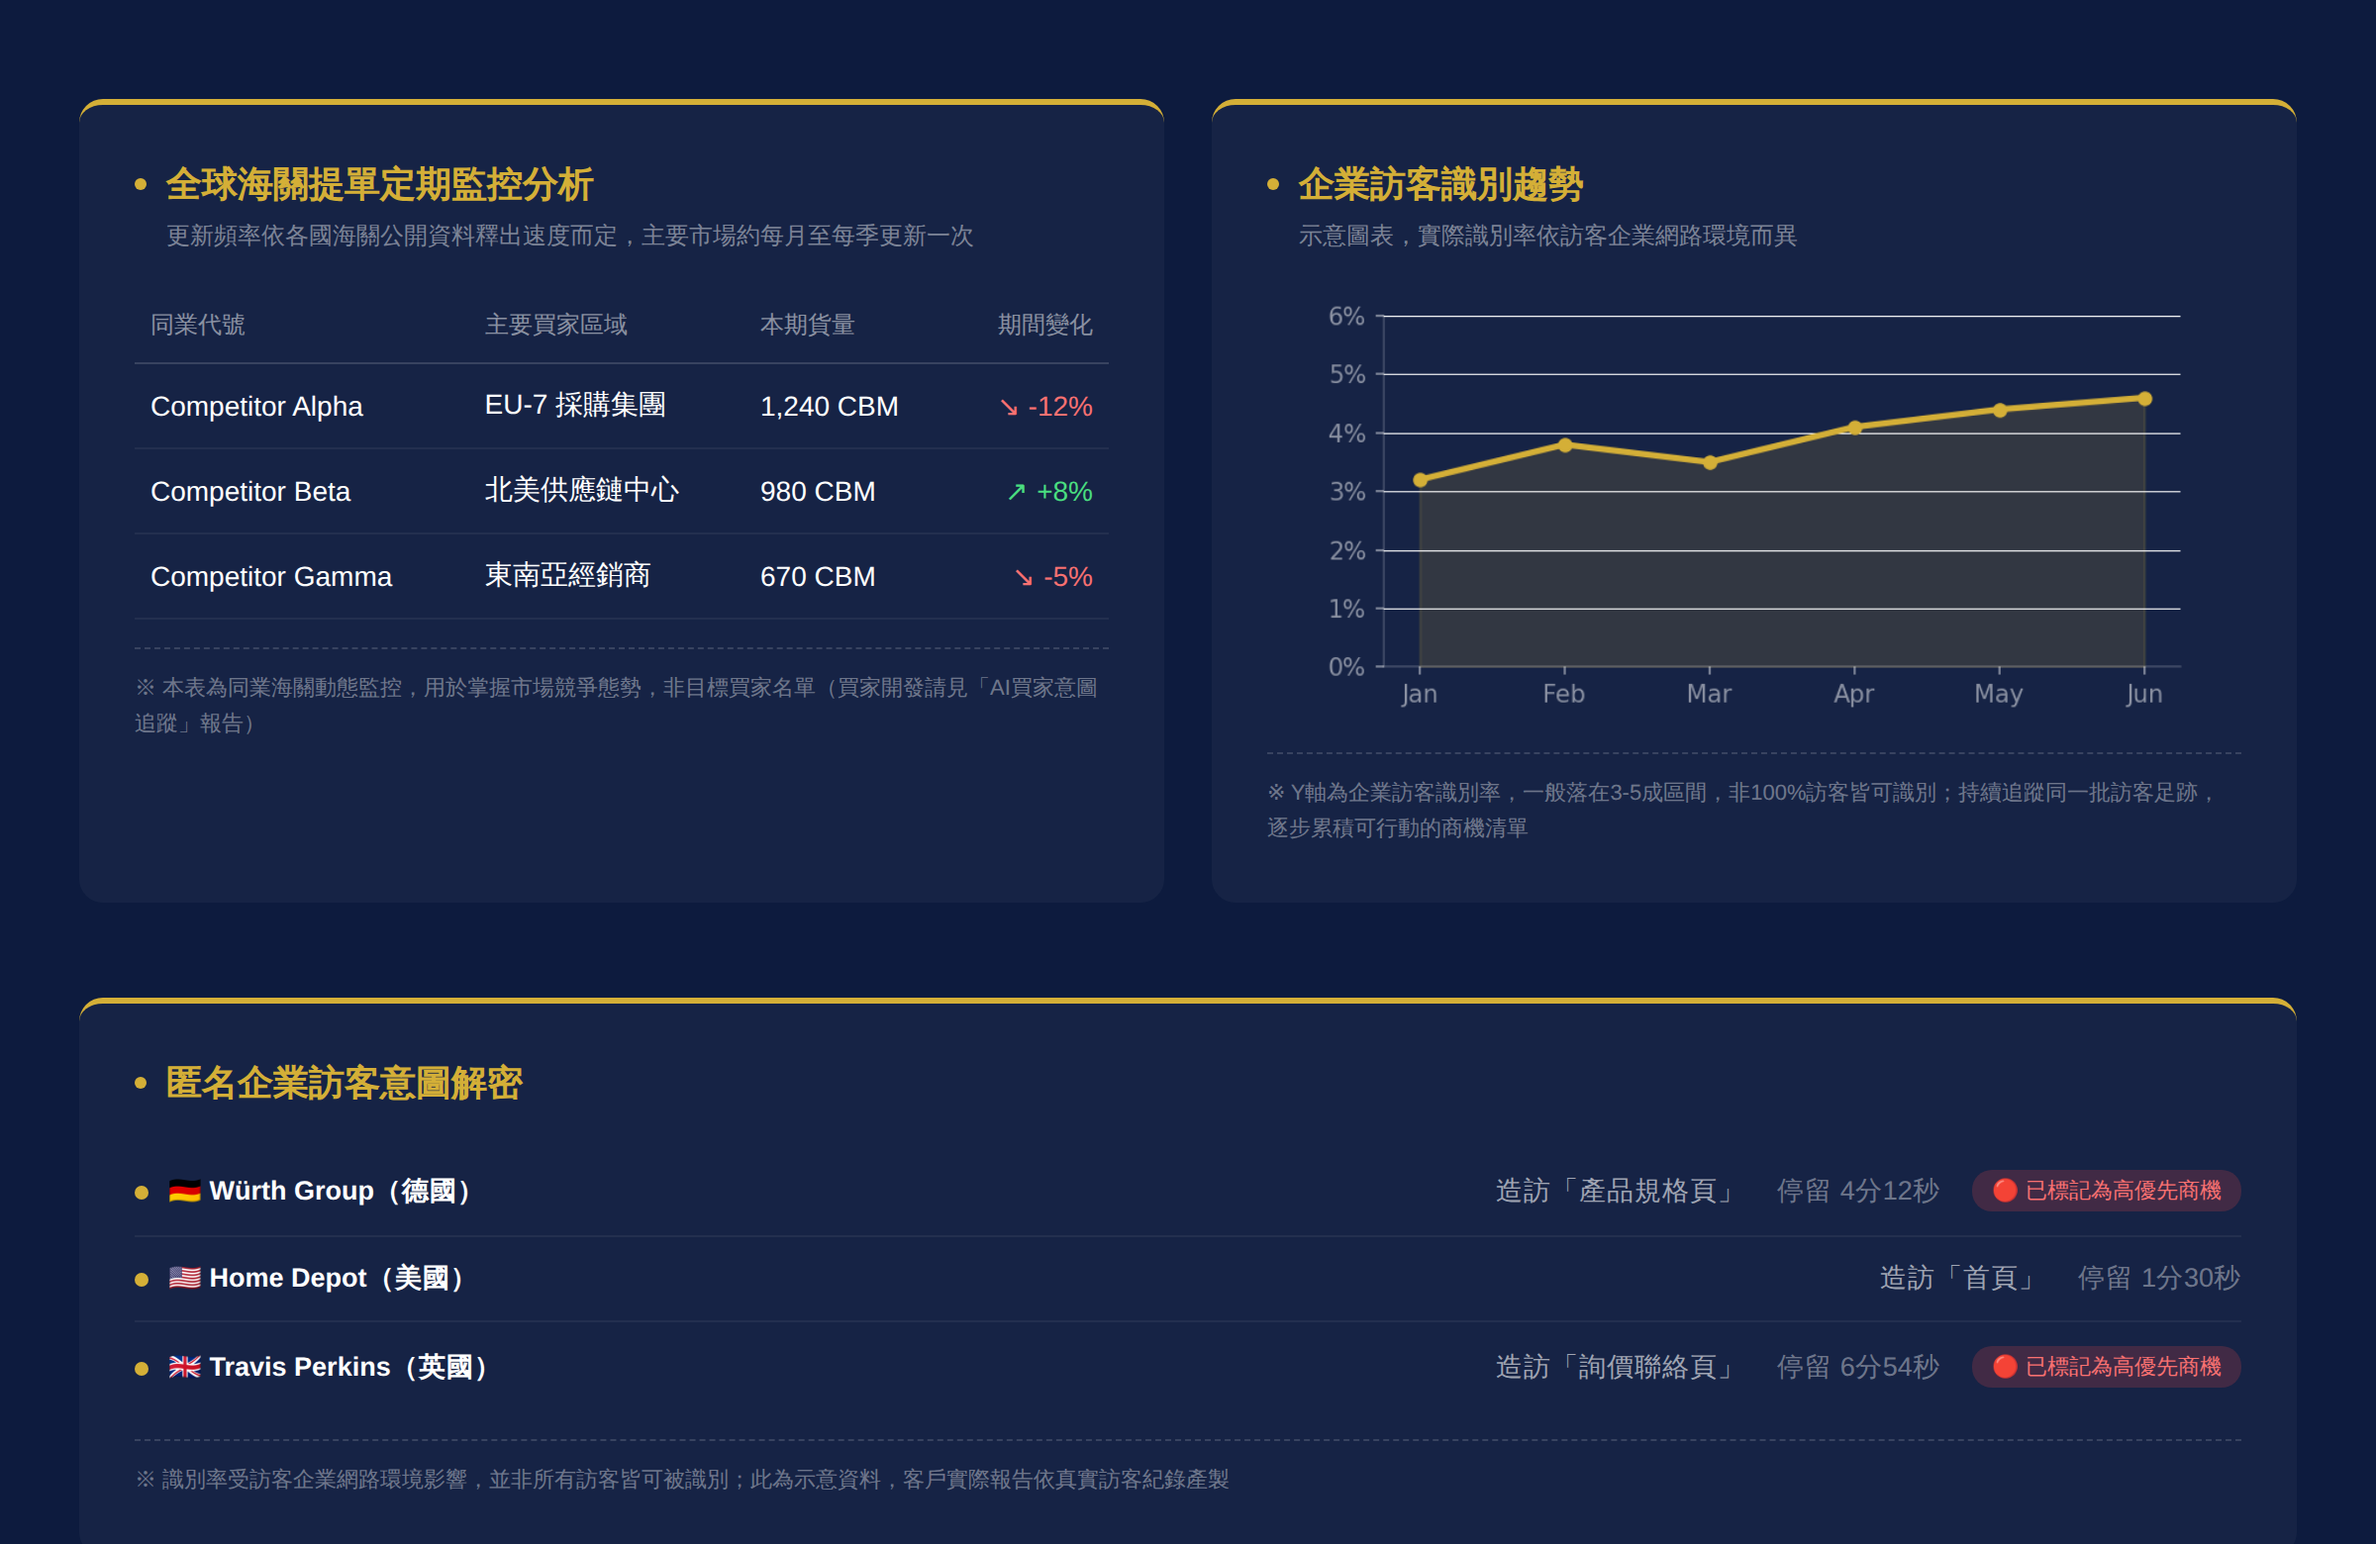
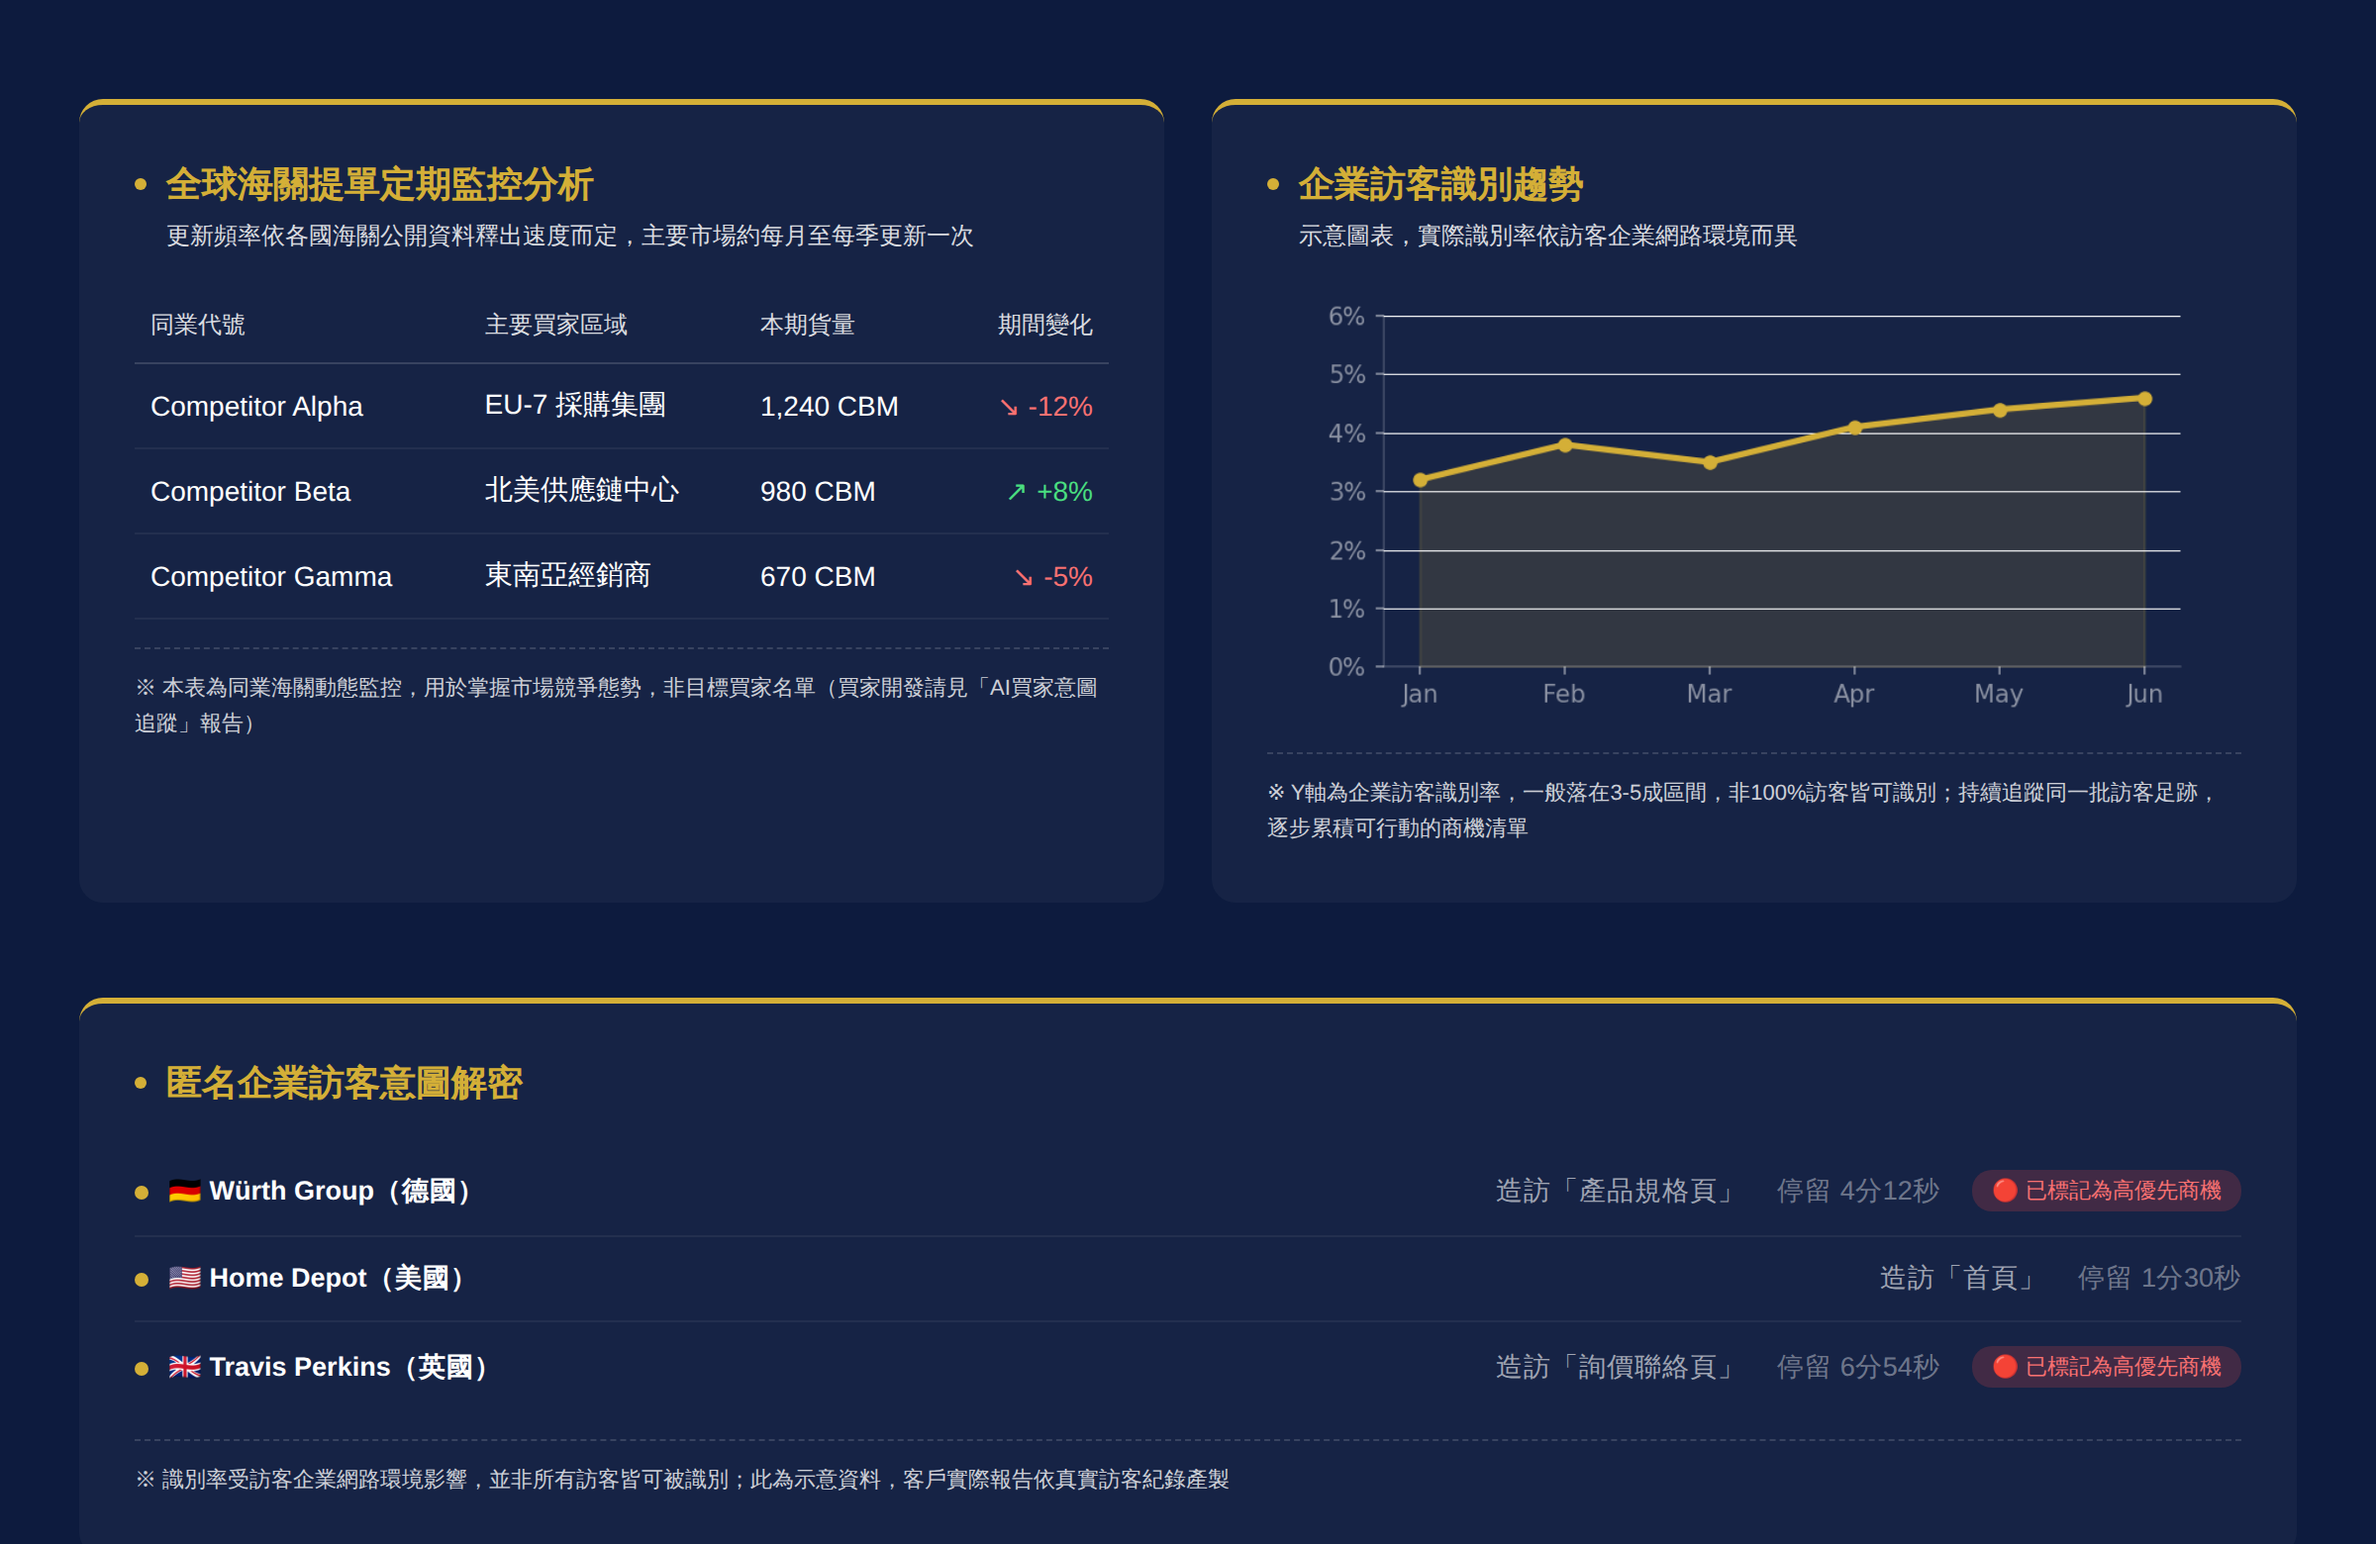
統一戰情報告小字的白色濃度：說明文字/表格標題/但書文字原本用0.4-0.5透明度偏灰偏淡，統一提高到0.8-0.85，跟主要文字(如國家名稱)的白色濃度一致，改善可讀性；同時修正媒體實績區塊AP/Reuters兩張截圖因原始比例不同導致顯示大小不一的問題，並提高該區塊說明文字透明度

diff --git a/src/App.tsx b/src/App.tsx
@@ -360,16 +360,20 @@ function Section2() {
             <div className="rounded-xl overflow-hidden border-2 border-navy/20 shadow-lg">
               <div className="bg-navy px-4 py-2 flex items-center gap-2">
                 <span className="font-inter text-white font-bold text-sm">AP</span>
-                <span className="font-inter text-white/70 text-xs">Associated Press · AP News</span>
+                <span className="font-inter text-white/90 text-xs">Associated Press · AP News</span>
               </div>
-              <img src="/press-ap.jpg" alt="AP News 刊登截圖" className="w-full object-cover" />
+              <div className="h-64 md:h-72 overflow-hidden">
+                <img src="/press-ap.jpg" alt="AP News 刊登截圖" className="w-full h-full object-cover object-top" />
+              </div>
             </div>
             <div className="rounded-xl overflow-hidden border-2 border-navy/20 shadow-lg">
               <div className="bg-[#FF8000] px-4 py-2 flex items-center gap-2">
                 <span className="font-inter text-white font-bold text-sm">Reuters</span>
-                <span className="font-inter text-white/70 text-xs">路透社 · 全球最大通訊社</span>
+                <span className="font-inter text-white/90 text-xs">路透社 · 全球最大通訊社</span>
               </div>
-              <img src="/press-reuters.jpg" alt="Reuters 刊登截圖" className="w-full object-cover" />
+              <div className="h-64 md:h-72 overflow-hidden">
+                <img src="/press-reuters.jpg" alt="Reuters 刊登截圖" className="w-full h-full object-cover object-top" />
+              </div>
             </div>
           </div>
           <p className="font-inter text-text-muted text-center text-xs mt-4">* 客戶資料依保密協議處理，媒體刊登內容均為真實案例</p>
